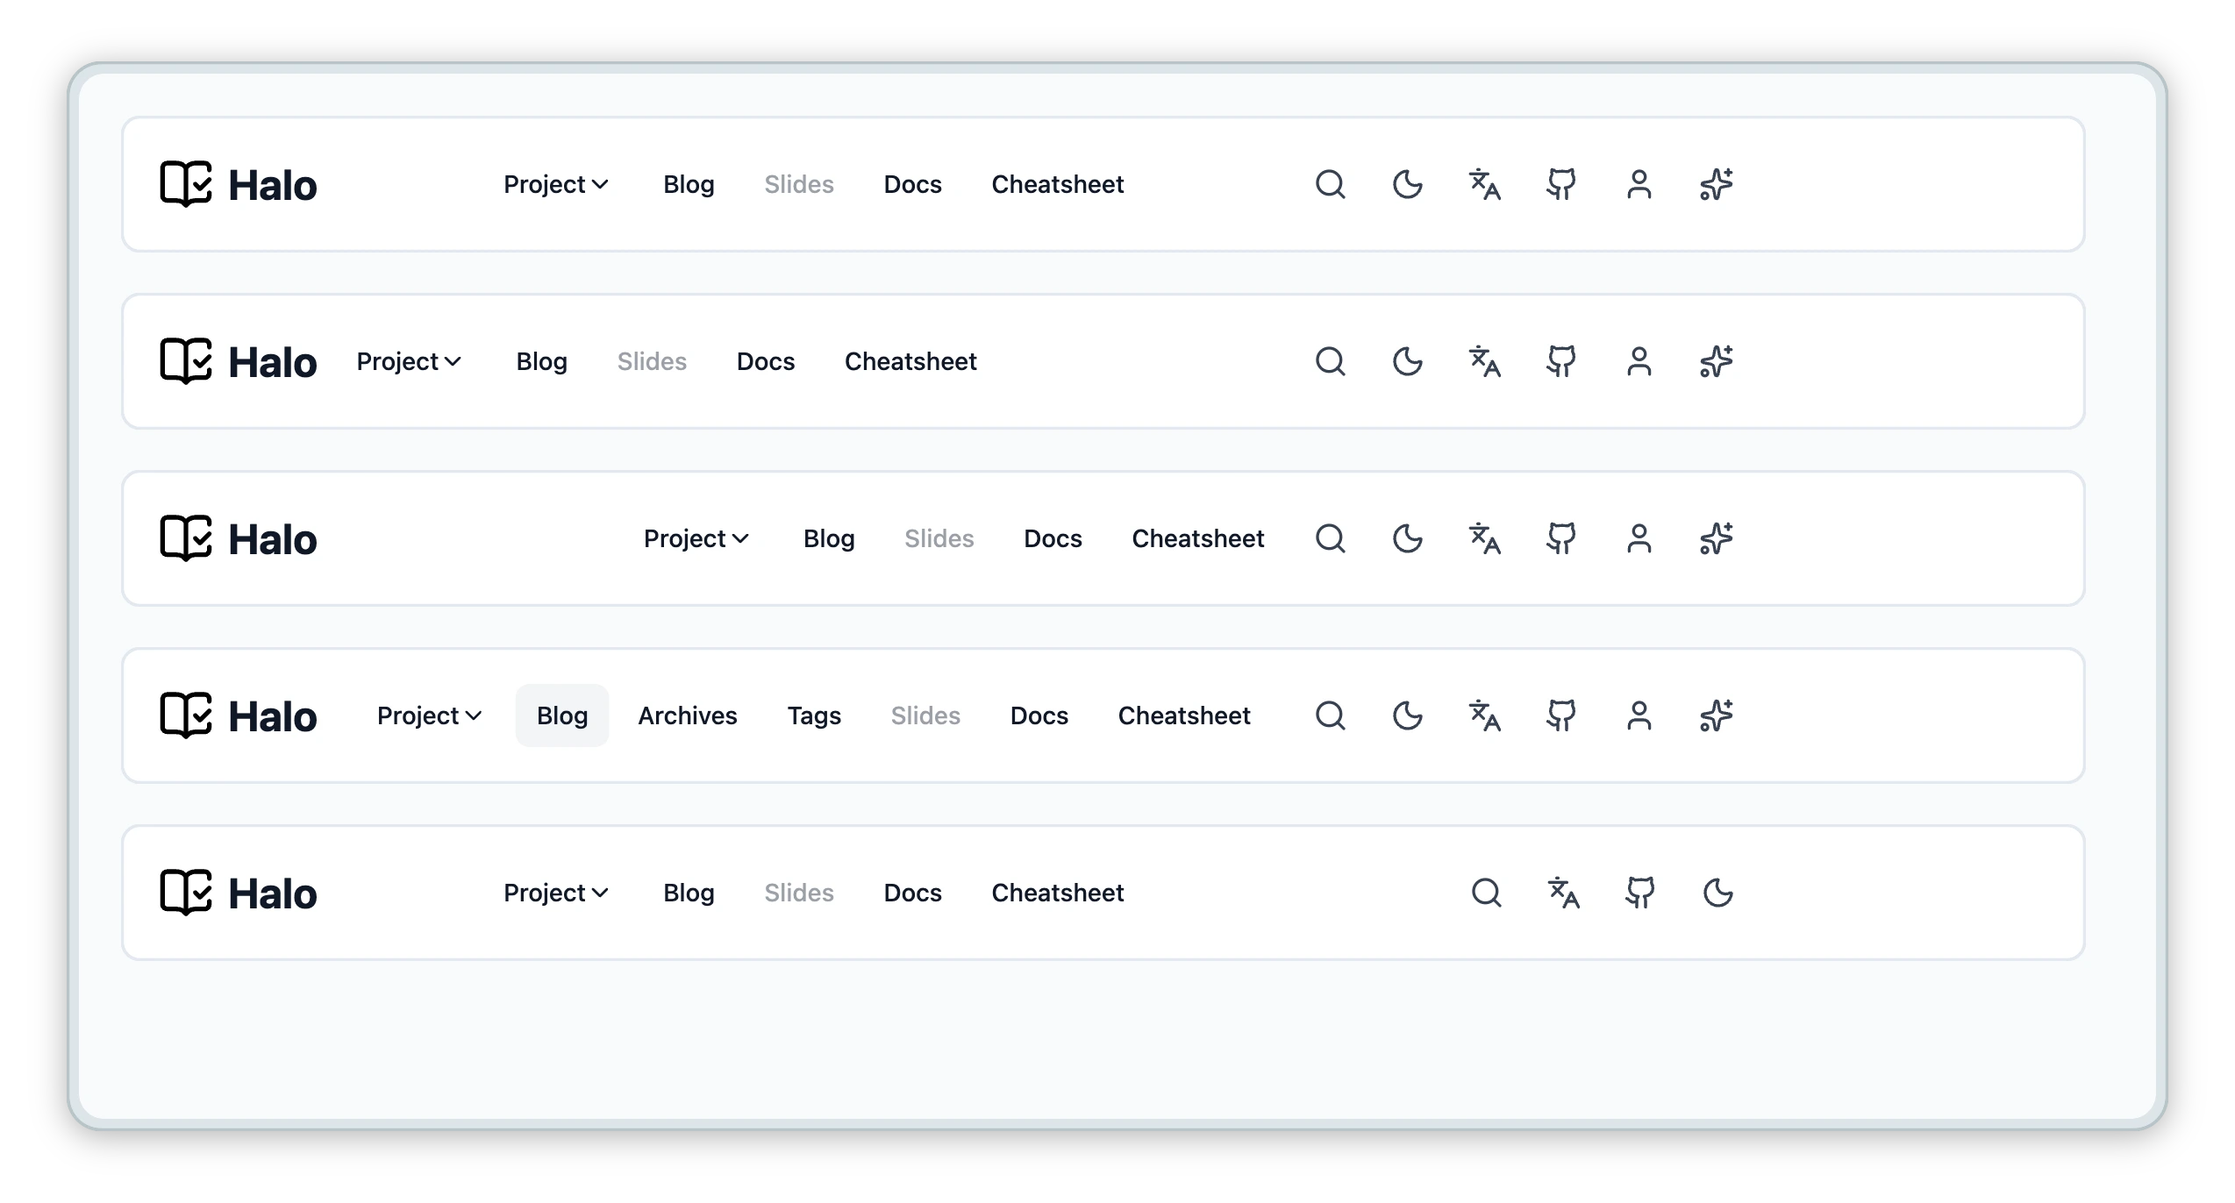
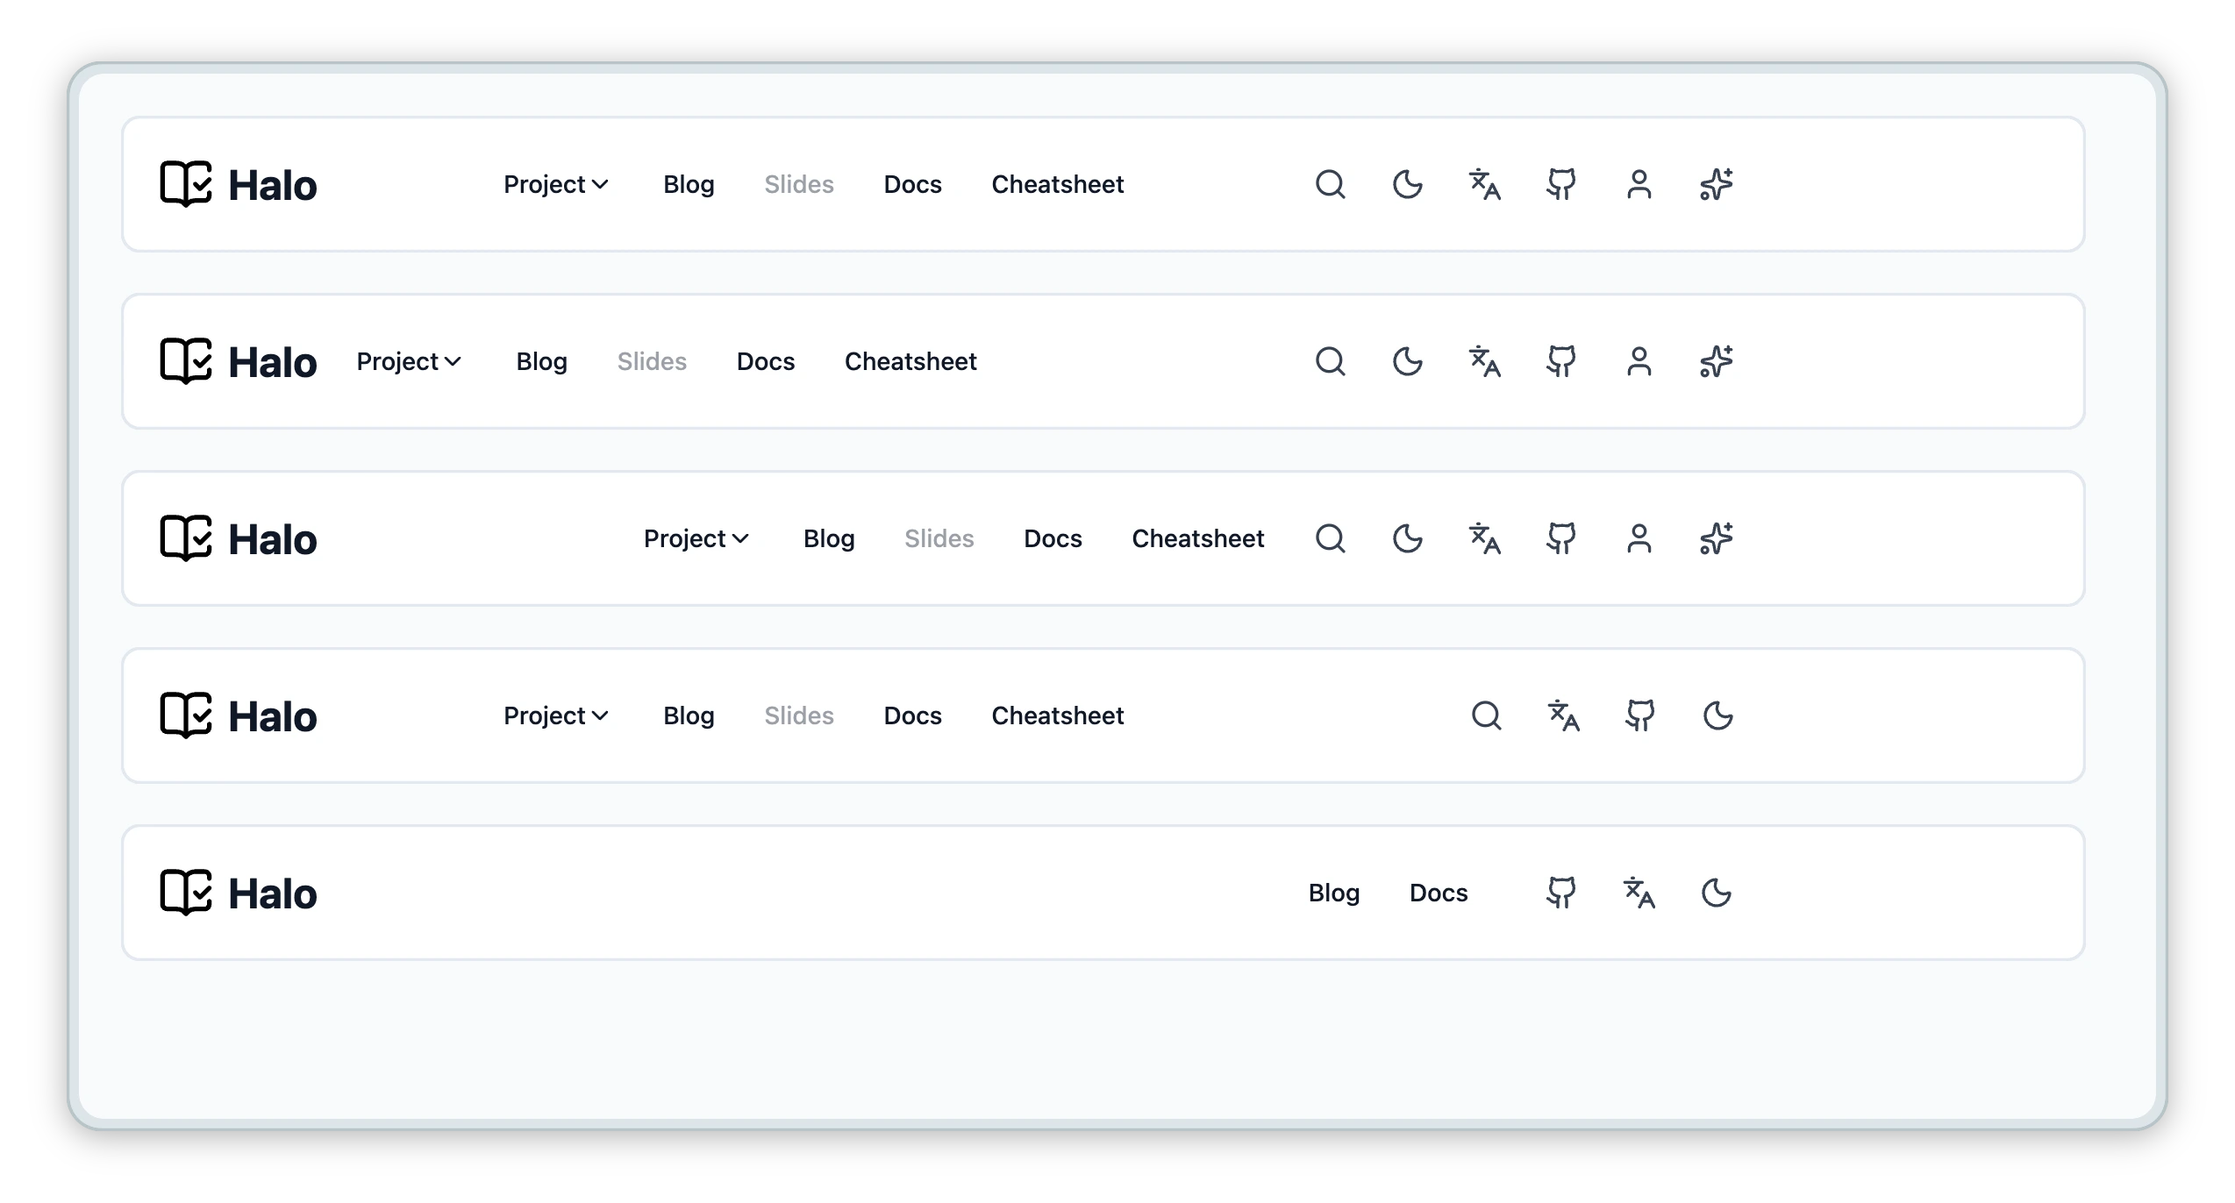
add hugo project pages

diff --git a/layouts/project/single.html b/layouts/project/single.html
@@ -1,53 +1,76 @@
 {{ define "main" }}
 {{- $page := . -}}
 {{- $hero := .Params.hero -}}
+{{- $glows := slice
+    "background:radial-gradient(ellipse at 50% 80%,rgba(194,97,254,.15),hsla(0,0%,100%,0))"
+    "background:radial-gradient(ellipse at 50% 80%,rgba(142,53,74,.15),hsla(0,0%,100%,0))"
+    "background:radial-gradient(ellipse at 50% 80%,rgba(221,210,59,.15),hsla(0,0%,100%,0))"
+    "background:radial-gradient(ellipse at 50% 80%,rgba(56,189,248,.15),hsla(0,0%,100%,0))"
+    "background:radial-gradient(ellipse at 50% 80%,rgba(16,185,129,.15),hsla(0,0%,100%,0))"
+-}}
 <div class="max-w-7xl mx-auto py-8 md:py-12">
     {{ if $hero }}
-        <div class="flex flex-col items-start">
-            {{ with $hero.badge }}
-                {{ if .url }}
-                    {{ $badgeHref := .url }}
-                    {{ if not (or (strings.HasPrefix $badgeHref "http") (strings.HasPrefix $badgeHref "#")) }}
-                        {{ $badgeHref = $badgeHref | relLangURL }}
+        {{ $heroImgSrc := "" }}
+        {{ with $hero.image }}
+            {{ with $page.Resources.GetMatch . }}
+                {{ $heroImgSrc = .RelPermalink }}
+            {{ else }}
+                {{ $heroImgSrc = . | relURL }}
+            {{ end }}
+        {{ end }}
+        <div class="{{ if $heroImgSrc }}grid grid-cols-1 lg:grid-cols-2 gap-8 lg:gap-12 items-center mb-12{{ else }}flex flex-col items-start{{ end }}">
+            <div class="flex flex-col items-start">
+                {{ with $hero.badge }}
+                    {{ if .url }}
+                        {{ $badgeHref := .url }}
+                        {{ if not (or (strings.HasPrefix $badgeHref "http") (strings.HasPrefix $badgeHref "#")) }}
+                            {{ $badgeHref = $badgeHref | relLangURL }}
+                        {{ end }}
+                        <a href="{{ $badgeHref }}"{{ if strings.HasPrefix $badgeHref "http" }} target="_blank" rel="noopener noreferrer"{{ end }} class="not-prose inline-flex items-center rounded-full gap-2 px-3 py-1 text-xs text-gray-600 dark:text-gray-400 bg-gray-100 dark:bg-neutral-800 border border-gray-200 dark:border-neutral-800 hover:border-gray-400 dark:hover:text-gray-50 dark:hover:border-gray-600 transition-all ease-in duration-200">
+                            <span class="w-2 h-2 rounded-full bg-primary"></span>
+                            <span>{{ .text }}</span>
+                            {{ partial "component/icon.html" (dict "name" (.icon | default "circle-arrow-right") "width" 14) }}
+                        </a>
+                    {{ else }}
+                        <div class="not-prose inline-flex items-center rounded-full gap-2 px-3 py-1 text-xs text-gray-600 dark:text-gray-400 bg-gray-100 dark:bg-neutral-800 border border-gray-200 dark:border-neutral-800">
+                            <span class="w-2 h-2 rounded-full bg-primary"></span>
+                            <span>{{ .text }}</span>
+                        </div>
                     {{ end }}
-                    <a href="{{ $badgeHref }}"{{ if strings.HasPrefix $badgeHref "http" }} target="_blank" rel="noopener noreferrer"{{ end }} class="not-prose inline-flex items-center rounded-full gap-2 px-3 py-1 text-xs text-gray-600 dark:text-gray-400 bg-gray-100 dark:bg-neutral-800 border border-gray-200 dark:border-neutral-800 hover:border-gray-400 dark:hover:text-gray-50 dark:hover:border-gray-600 transition-all ease-in duration-200">
-                        <span class="w-2 h-2 rounded-full bg-primary"></span>
-                        <span>{{ .text }}</span>
-                        {{ partial "component/icon.html" (dict "name" (.icon | default "circle-arrow-right") "width" 14) }}
-                    </a>
-                {{ else }}
-                    <div class="not-prose inline-flex items-center rounded-full gap-2 px-3 py-1 text-xs text-gray-600 dark:text-gray-400 bg-gray-100 dark:bg-neutral-800 border border-gray-200 dark:border-neutral-800">
-                        <span class="w-2 h-2 rounded-full bg-primary"></span>
-                        <span>{{ .text }}</span>
+                {{ end }}
+
+                {{ with $hero.title }}
+                    <div class="mt-6 mb-6">
+                        <h1 class="not-prose text-4xl font-bold leading-none tracking-tighter md:text-5xl py-2 bg-clip-text text-transparent bg-gradient-to-r from-gray-900 to-gray-600 dark:from-gray-100 dark:to-gray-400">
+                            {{ replace . "|" "<br class=\"sm:block hidden\">" | safeHTML }}
+                        </h1>
                     </div>
                 {{ end }}
-            {{ end }}
 
-            {{ with $hero.title }}
-                <div class="mt-6 mb-6">
-                    <h1 class="not-prose text-4xl font-bold leading-none tracking-tighter md:text-5xl py-2 bg-clip-text text-transparent bg-gradient-to-r from-gray-900 to-gray-600 dark:from-gray-100 dark:to-gray-400">
-                        {{ replace . "|" "<br class=\"sm:block hidden\">" | safeHTML }}
-                    </h1>
-                </div>
-            {{ end }}
-
-            {{ with $hero.subtitle }}
-                <div class="mb-12">
-                    <p class="not-prose text-xl text-gray-600 dark:text-gray-400 sm:text-xl leading-relaxed">
-                        {{ replace . "|" "<br class=\"sm:block hidden\">" | safeHTML }}
-                    </p>
-                </div>
-            {{ end }}
-
-            {{ with $hero.action }}
-                {{ $actionHref := .url }}
-                {{ if not (or (strings.HasPrefix $actionHref "http") (strings.HasPrefix $actionHref "#")) }}
-                    {{ $actionHref = $actionHref | relLangURL }}
+                {{ with $hero.subtitle }}
+                    <div class="{{ if $heroImgSrc }}mb-8{{ else }}mb-12{{ end }}">
+                        <p class="not-prose text-xl text-gray-600 dark:text-gray-400 sm:text-xl leading-relaxed">
+                            {{ replace . "|" "<br class=\"sm:block hidden\">" | safeHTML }}
+                        </p>
+                    </div>
                 {{ end }}
-                <div class="mb-12">
-                    <a href="{{ $actionHref }}" class="not-prose font-medium cursor-pointer px-6 py-3 rounded-full text-center text-white inline-block bg-blue-600 hover:bg-blue-700 dark:bg-blue-600 dark:hover:bg-blue-700 transition-all ease-in duration-200">
-                        {{ .text }}
-                    </a>
+
+                {{ with $hero.action }}
+                    {{ $actionHref := .url }}
+                    {{ if not (or (strings.HasPrefix $actionHref "http") (strings.HasPrefix $actionHref "#")) }}
+                        {{ $actionHref = $actionHref | relLangURL }}
+                    {{ end }}
+                    <div class="{{ if not $heroImgSrc }}mb-12{{ end }}">
+                        <a href="{{ $actionHref }}" class="not-prose font-medium cursor-pointer px-6 py-3 rounded-full text-center text-white inline-block bg-blue-600 hover:bg-blue-700 dark:bg-blue-600 dark:hover:bg-blue-700 transition-all ease-in duration-200">
+                            {{ .text }}
+                        </a>
+                    </div>
+                {{ end }}
+            </div>
+
+            {{ if $heroImgSrc }}
+                <div class="relative w-full">
+                    <img src="{{ $heroImgSrc }}" alt="{{ $page.Title }}" class="w-full h-auto block" loading="eager" decoding="async">
                 </div>
             {{ end }}
         </div>
@@ -59,11 +82,12 @@
 
     {{ with .Params.features }}
         <div class="grid grid-cols-1 sm:max-lg:grid-cols-2 lg:grid-cols-3 gap-4 w-full not-prose">
-            {{ range . }}
-                {{ $hasImage := isset . "image" }}
-                {{ $bgStyle := .style | default (cond $hasImage "background:radial-gradient(ellipse at 50% 80%,rgba(194,97,254,.15),hsla(0,0%,100%,0))" "") }}
+            {{ range $idx, $feat := . }}
+                {{ $hasImage := isset $feat "image" }}
+                {{ $defaultGlow := index $glows (mod $idx (len $glows)) }}
+                {{ $bgStyle := $feat.style | default (cond $hasImage $defaultGlow "") }}
                 {{ $cardClass := printf "%s relative overflow-hidden rounded-3xl border border-gray-200 hover:border-gray-300 dark:border-neutral-800 dark:hover:border-neutral-700 transition-colors duration-200" (cond $hasImage "aspect-auto md:aspect-[1.1/1] max-md:min-h-[340px] block" "block") }}
-                {{ with .span }}
+                {{ with $feat.span }}
                     {{ if eq . 2 }}
                         {{ $cardClass = printf "%s lg:col-span-2" $cardClass }}
                     {{ else if eq . 3 }}
@@ -72,7 +96,7 @@
                 {{ end }}
 
                 {{ $imgSrc := "" }}
-                {{ with .image }}
+                {{ with $feat.image }}
                     {{ with $page.Resources.GetMatch . }}
                         {{ $imgSrc = .RelPermalink }}
                     {{ else }}
@@ -80,38 +104,38 @@
                     {{ end }}
                 {{ end }}
 
-                {{ if .url }}
-                    {{ $cardHref := .url }}
+                {{ if $feat.url }}
+                    {{ $cardHref := $feat.url }}
                     {{ if not (or (strings.HasPrefix $cardHref "http") (strings.HasPrefix $cardHref "#")) }}
                         {{ $cardHref = $cardHref | relLangURL }}
                     {{ end }}
                     <a href="{{ $cardHref }}" {{ with $bgStyle }}style="{{ . | safeCSS }}"{{ end }} class="{{ $cardClass }}">
                         <div class="relative w-full p-6">
                             <h3 class="text-2xl font-medium leading-6 mb-2 flex items-center gap-2">
-                                {{ with .icon }}
+                                {{ with $feat.icon }}
                                     {{ partial "component/icon.html" (dict "name" . "width" 22) }}
                                 {{ end }}
-                                <span>{{ .title }}</span>
+                                <span>{{ $feat.title }}</span>
                             </h3>
-                            <p class="text-gray-500 dark:text-gray-400 text-sm leading-6">{{ .description }}</p>
+                            <p class="text-gray-500 dark:text-gray-400 text-sm leading-6">{{ $feat.description }}</p>
                         </div>
                         {{ if $imgSrc }}
-                            <img src="{{ $imgSrc }}" class="{{ .image_class | default "absolute max-w-none top-[40%] left-[24px] w-[180%] sm:w-[110%] dark:opacity-80" }}" alt="{{ .title }}" loading="lazy" decoding="async">
+                            <img src="{{ $imgSrc }}" class="{{ $feat.image_class | default "absolute max-w-none top-[40%] left-[24px] w-[180%] sm:w-[110%] dark:opacity-80" }}" alt="{{ $feat.title }}">
                         {{ end }}
                     </a>
                 {{ else }}
                     <div {{ with $bgStyle }}style="{{ . | safeCSS }}"{{ end }} class="{{ $cardClass }}">
                         <div class="relative w-full p-6">
                             <h3 class="text-2xl font-medium leading-6 mb-2 flex items-center gap-2">
-                                {{ with .icon }}
+                                {{ with $feat.icon }}
                                     {{ partial "component/icon.html" (dict "name" . "width" 22) }}
                                 {{ end }}
-                                <span>{{ .title }}</span>
+                                <span>{{ $feat.title }}</span>
                             </h3>
-                            <p class="text-gray-500 dark:text-gray-400 text-sm leading-6">{{ .description }}</p>
+                            <p class="text-gray-500 dark:text-gray-400 text-sm leading-6">{{ $feat.description }}</p>
                         </div>
                         {{ if $imgSrc }}
-                            <img src="{{ $imgSrc }}" class="{{ .image_class | default "absolute max-w-none top-[40%] left-[24px] w-[180%] sm:w-[110%] dark:opacity-80" }}" alt="{{ .title }}" loading="lazy" decoding="async">
+                            <img src="{{ $imgSrc }}" class="{{ $feat.image_class | default "absolute max-w-none top-[40%] left-[24px] w-[180%] sm:w-[110%] dark:opacity-80" }}" alt="{{ $feat.title }}">
                         {{ end }}
                     </div>
                 {{ end }}

diff --git a/layouts/slide/single.html b/layouts/slide/single.html
@@ -2,8 +2,11 @@
 <html lang="en">
   <head>
     {{ partial "head/meta.html" . }}
+    {{- $theme := .Params.reveal.theme | default "black" -}}
+    {{- $darkThemes := slice "black" "blood" "dracula" "league" "moon" "night" -}}
+    {{- $invertLogo := in $darkThemes $theme -}}
     <link rel="stylesheet" href="/reveal/dist/reveal.css">
-    <link rel="stylesheet" href="/reveal/dist/theme/{{ .Params.reveal.theme | default "black" }}.css" id="theme">
+    <link rel="stylesheet" href="/reveal/dist/theme/{{ $theme }}.css" id="theme">
     <link rel="stylesheet" href="/reveal/plugin/highlight/monokai.css">
     <style>
       .slide-logo {
@@ -23,7 +26,7 @@
   </head>
   <body>
     <a href="{{ "slide/" | relLangURL }}" class="slide-logo" title="Back to Slides">
-      <img src="/images/logo.svg" alt="Logo">
+      <img src="{{ site.Params.menu.logo | default "/images/logo.svg" | relURL }}" alt="Logo"{{ if $invertLogo }} style="filter: invert(1);"{{ end }}>
     </a>
     <div class="reveal">
       <div class="slides">

diff --git a/exampleSite/content/en/project/halo/index.md b/exampleSite/content/en/project/halo/index.md
@@ -15,28 +15,41 @@ header:
       pageRef: "/docs/"
       weight: 40
   icons:
+    - name: "theme"
+      default: "auto"
+      responsive: "always"
+    - name: "language"
+      responsive: "md"
     - name: "link"
       responsive: "lg"
       icon: "github"
       blank: true
       translate: "github"
       target: "https://github.com/gohalo/halo"
-    - name: "language"
-      responsive: "md"
-    - name: "theme"
-      default: "auto"
-      responsive: "always"
 hero:
   badge:
     text: "Free, open source"
     url: "https://github.com/gohalo/halo"
-  title: "Build modern websites |with Markdown and Hugo"
-  subtitle: "Fast, batteries-included Hugo theme |for creating beautiful static websites"
+  title: "Hugo + Tailwind + Lucide|Build modern websites"
+  subtitle: "Batteries-included theme |for creating beautiful static websites"
+  image: "images/hero.webp"
   action:
     text: "Get Started"
     url: "/docs/"
 features:
   - title: "Multi-style Header"
-    description: "Left, center, or right-aligned nav, section-aware menus, and customizable icons."
+    description: "Left/center/right alignment, section-aware menus, customizable icons, and page-level config."
     image: "images/header.webp"
+  - title: "Syntax Highlighting"
+    description: "Multi-language support with configurable line numbers, line highlighting, filenames, and copy button."
+    image: "images/code.webp"
+  - title: "Image Display"
+    description: "Configurable width and height, left/right floating alignment, and image captions."
+    image: "images/image.webp"
+  - title: "Shortcodes"
+    description: "Built-in components for collapsible details, callout notices, multi-tabs, steps, and more."
+    image: "images/shortcode.webp"
+  - title: "More Features"
+    description: "KaTeX mathematical expressions and Mermaid diagrams."
+    image: "images/misc.webp"
 ---

diff --git a/exampleSite/content/zh/project/halo/index.md b/exampleSite/content/zh/project/halo/index.md
@@ -15,29 +15,42 @@ header:
       pageRef: "/docs/"
       weight: 40
   icons:
+    - name: "theme"
+      default: "auto"
+      responsive: "always"
+    - name: "language"
+      responsive: "md"
     - name: "link"
       responsive: "lg"
       icon: "github"
       blank: true
       translate: "github"
       target: "https://github.com/gohalo/halo"
-    - name: "language"
-      responsive: "md"
-    - name: "theme"
-      default: "auto"
-      responsive: "always"
 hero:
   badge:
     text: "免费、开源"
     url: "https://github.com/gohalo/halo"
-  title: "使用 Markdown 和 Hugo |构建现代化静态网站"
-  subtitle: "快速、开箱即用的 Hugo 主题，|轻松打造美观的博客、文档、产品与简历站点"
+  title: "Hugo + Tailwind + Lucide|构建现代化静态网站"
+  subtitle: "开箱即用的主题|轻松打造博客、文档、产品与简历站点"
+  image: "images/hero.webp"
   action:
     text: "快速开始"
     url: "/docs/"
 features:
   - title: "多样式页头"
-    description: "导航左/中/右对齐、根据目录显示导航、图标高度可定制"
+    description: "导航左/中/右对齐、根据目录扩展导航、图标可定制、页面级别配置"
     image: "images/header.webp"
+  - title: "代码高亮"
+    description: "支持多种语言、可配置行号、行高亮、显示文件名、支持复制"
+    image: "images/code.webp"
+  - title: "图片显示"
+    description: "允许配置高/宽度、可以靠右/左悬浮、支持图片描述信息"
+    image: "images/image.webp"
+  - title: "短代码"
+    description: "支持详情展开、提示信息、多标签页、步骤等等"
+    image: "images/shortcode.webp"
+  - title: "其它"
+    description: "数学表达式、Mermaid流程图"
+    image: "images/misc.webp"
 ---
 

diff --git a/exampleSite/content/en/slide/sample/index.md b/exampleSite/content/en/slide/sample/index.md
@@ -95,6 +95,6 @@ Step 1 highlights package and imports; Step 2 focuses on the struct definition; 
 
 # Thank You!
 
-![Logo](/images/logo.svg)
+![Logo](/images/logo.svg) <!-- .element: style="filter: invert(1);" -->
 
 Click the top-left logo to return to the slides list

diff --git a/exampleSite/content/zh/slide/sample/index.md b/exampleSite/content/zh/slide/sample/index.md
@@ -95,6 +95,6 @@ Note:
 
 # 感谢观看！
 
-![Logo](/images/logo.svg)
+![Logo](/images/logo.svg) <!-- .element: style="filter: invert(1);" -->
 
 点击左上角图标即可返回幻灯片列表
